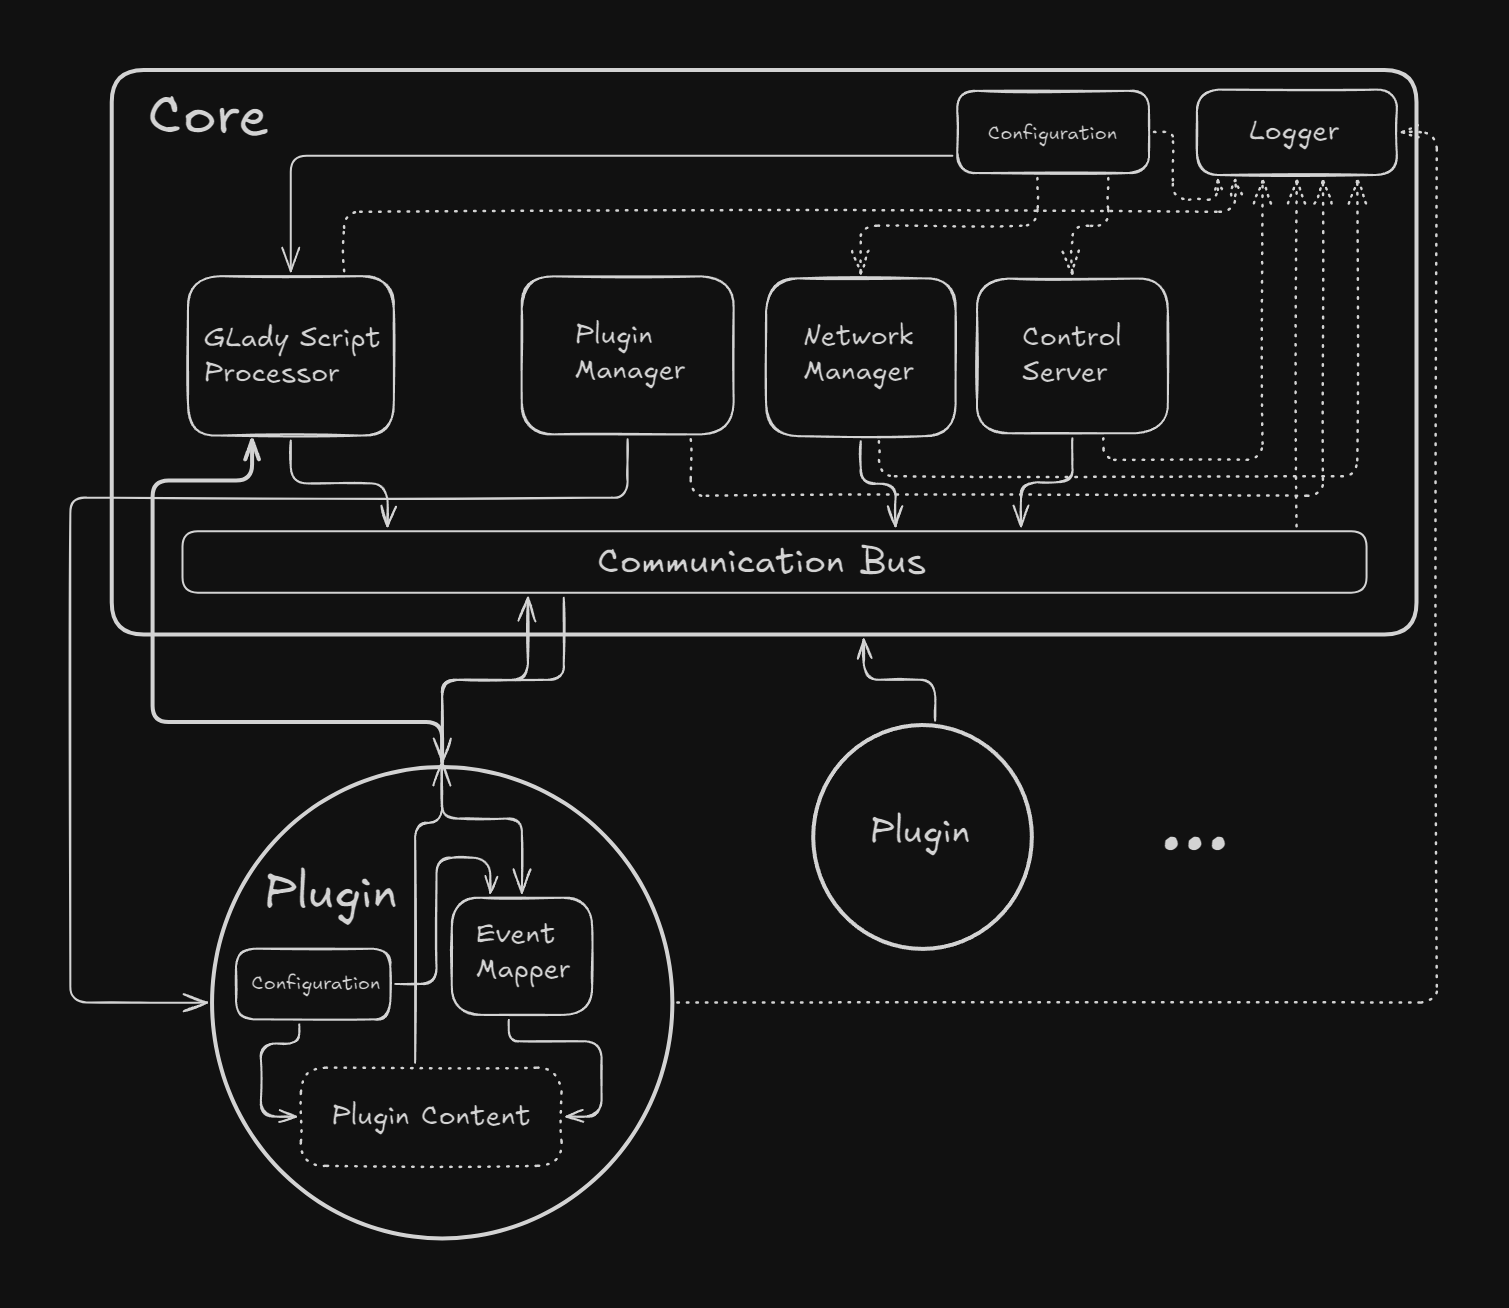
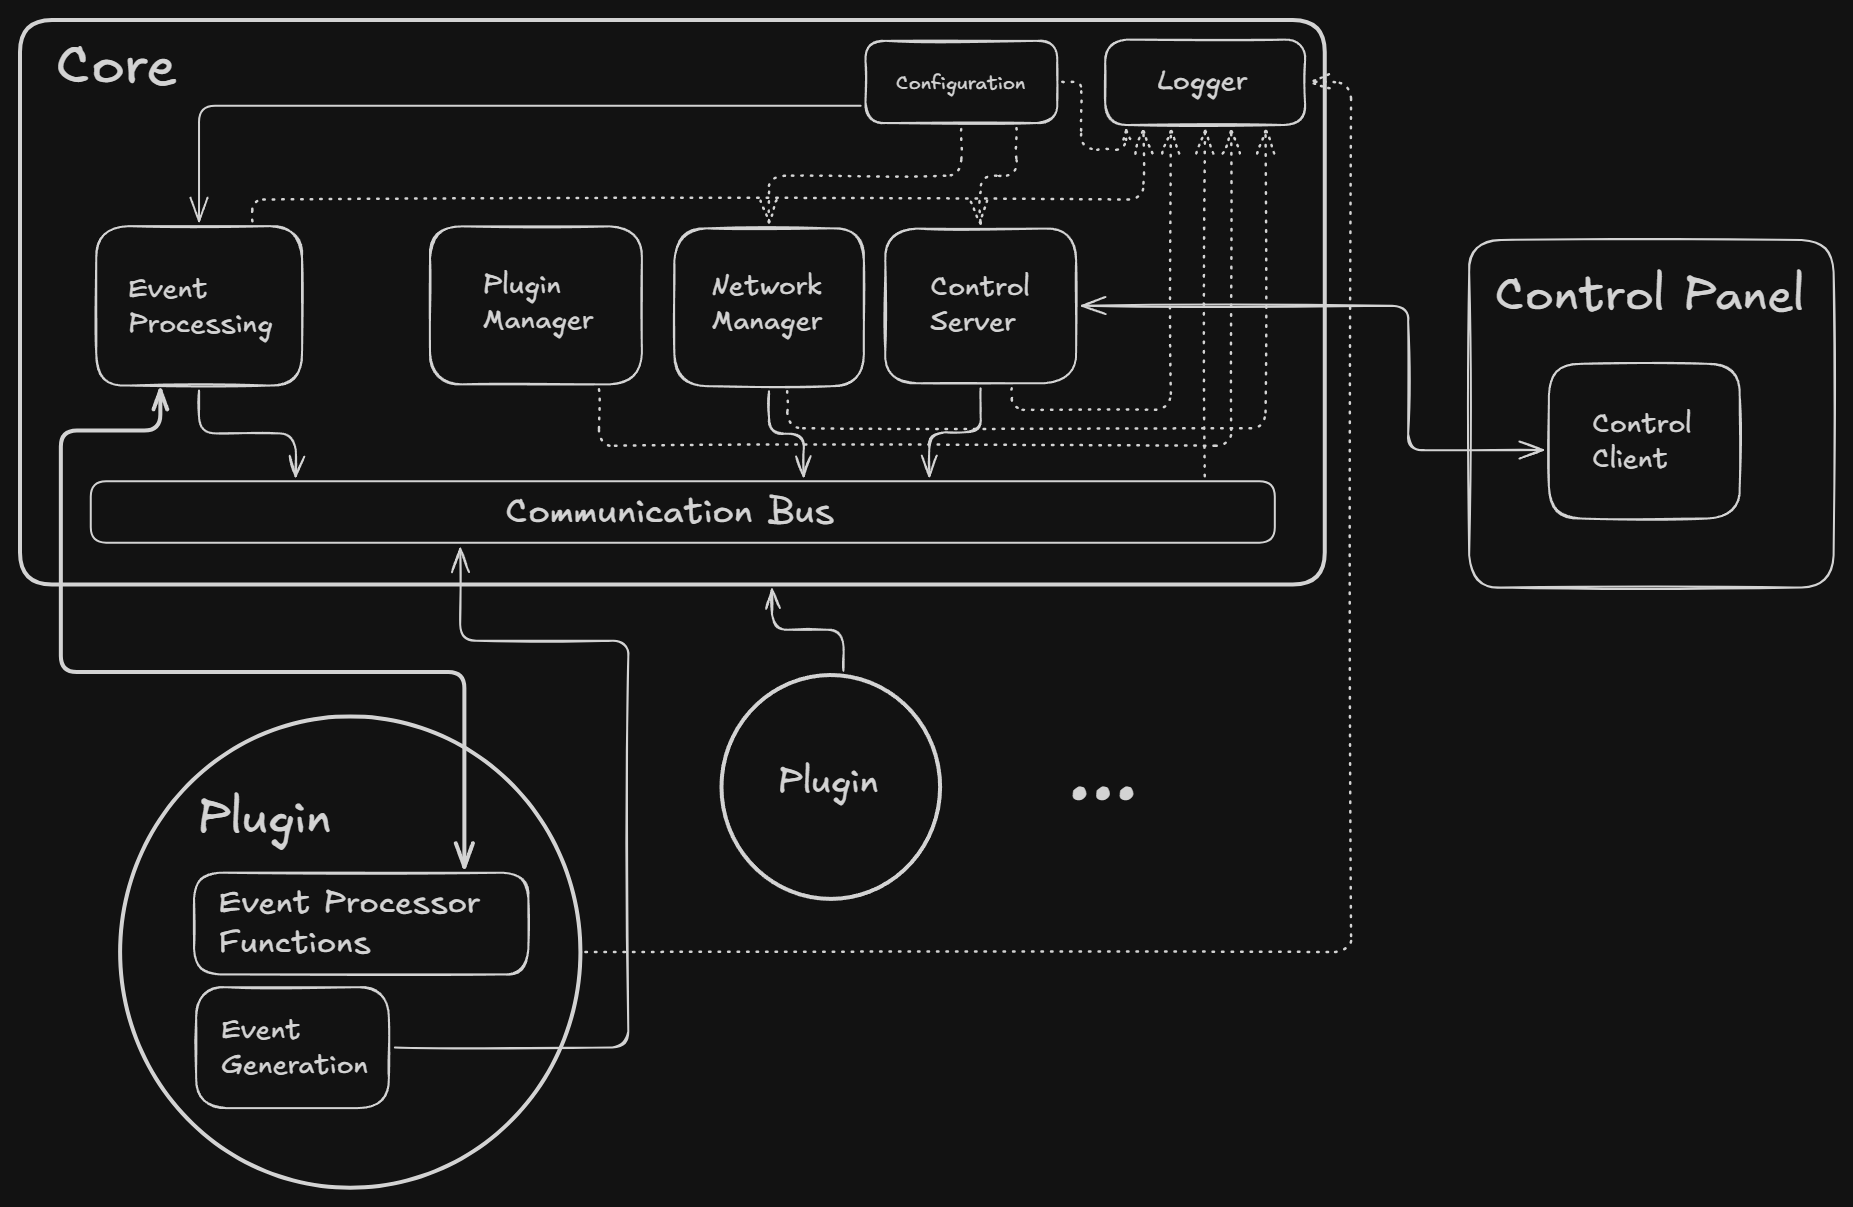
[DOCS] Architecture Scheme update

diff --git a/GLady Documentation/Excalidraw/GLadyDesign.md b/GLady Documentation/Excalidraw/GLadyDesign.md
@@ -33,229 +33,211 @@ Plugin ^hrD4Oge6
 
 ... ^zCPWZZqm
 
-Plugin Content ^B25HMugm
+Event
+Processing ^c4uxYhhH
 
 Event
-Mapper ^En6BriUw
+Generation ^En6BriUw
 
-GLady Script
-Processor ^c4uxYhhH
+Event Processor
+Functions ^d8Q81Ud8
 
-Configuration ^1S1NVL4I
+Control Panel ^R5ytfdoU
+
+Control
+Client ^zXq06XsP
 
 %%
 ## Drawing
 ```compressed-json
[2 lines of base64/hex data omitted]
 
[2 lines of base64/hex data omitted]
 
[2 lines of base64/hex data omitted]
 
[2 lines of base64/hex data omitted]
 
[2 lines of base64/hex data omitted]
 
[2 lines of base64/hex data omitted]
 
[2 lines of base64/hex data omitted]
 
[2 lines of base64/hex data omitted]
 
[2 lines of base64/hex data omitted]
 
[2 lines of base64/hex data omitted]
 
[2 lines of base64/hex data omitted]
 
[2 lines of base64/hex data omitted]
 
[2 lines of base64/hex data omitted]
 
[2 lines of base64/hex data omitted]
 
[2 lines of base64/hex data omitted]
 
[2 lines of base64/hex data omitted]
 
[2 lines of base64/hex data omitted]
 
[2 lines of base64/hex data omitted]
 
[2 lines of base64/hex data omitted]
 
[2 lines of base64/hex data omitted]
 
[2 lines of base64/hex data omitted]
 
[2 lines of base64/hex data omitted]
 
[2 lines of base64/hex data omitted]
 
[2 lines of base64/hex data omitted]
 
[2 lines of base64/hex data omitted]
 
[2 lines of base64/hex data omitted]
 
[2 lines of base64/hex data omitted]
 
[2 lines of base64/hex data omitted]
 
[2 lines of base64/hex data omitted]
 
[2 lines of base64/hex data omitted]
 
[2 lines of base64/hex data omitted]
 
[2 lines of base64/hex data omitted]
 
[2 lines of base64/hex data omitted]
 
[2 lines of base64/hex data omitted]
 
[2 lines of base64/hex data omitted]
 
[2 lines of base64/hex data omitted]
 
[2 lines of base64/hex data omitted]
 
[2 lines of base64/hex data omitted]
 
[2 lines of base64/hex data omitted]
 
[2 lines of base64/hex data omitted]
 
[2 lines of base64/hex data omitted]
 
[2 lines of base64/hex data omitted]
 
[2 lines of base64/hex data omitted]
 
[2 lines of base64/hex data omitted]
 
[2 lines of base64/hex data omitted]
 
[2 lines of base64/hex data omitted]
 
[2 lines of base64/hex data omitted]
 
[2 lines of base64/hex data omitted]
 
[2 lines of base64/hex data omitted]
 
[2 lines of base64/hex data omitted]
 
[2 lines of base64/hex data omitted]
 
[2 lines of base64/hex data omitted]
 
[2 lines of base64/hex data omitted]
 
[2 lines of base64/hex data omitted]
 
[2 lines of base64/hex data omitted]
 
[2 lines of base64/hex data omitted]
 
[2 lines of base64/hex data omitted]
 
[2 lines of base64/hex data omitted]
 
[2 lines of base64/hex data omitted]
 
[2 lines of base64/hex data omitted]
 
[2 lines of base64/hex data omitted]
 
[2 lines of base64/hex data omitted]
 
[2 lines of base64/hex data omitted]
 
[2 lines of base64/hex data omitted]
 
[2 lines of base64/hex data omitted]
 
[2 lines of base64/hex data omitted]
 
[2 lines of base64/hex data omitted]
 
[2 lines of base64/hex data omitted]
 
[2 lines of base64/hex data omitted]
 
[2 lines of base64/hex data omitted]
 
[2 lines of base64/hex data omitted]
 
[2 lines of base64/hex data omitted]
 
[2 lines of base64/hex data omitted]
 
[2 lines of base64/hex data omitted]
 
[2 lines of base64/hex data omitted]
 
[2 lines of base64/hex data omitted]
 
[2 lines of base64/hex data omitted]
 
[2 lines of base64/hex data omitted]
 
[2 lines of base64/hex data omitted]
 
[2 lines of base64/hex data omitted]
 
[2 lines of base64/hex data omitted]
 
[2 lines of base64/hex data omitted]
 
[2 lines of base64/hex data omitted]
 
[2 lines of base64/hex data omitted]
 
[2 lines of base64/hex data omitted]
 
[2 lines of base64/hex data omitted]
 
[2 lines of base64/hex data omitted]
 
[2 lines of base64/hex data omitted]
 
[2 lines of base64/hex data omitted]
 
[2 lines of base64/hex data omitted]
 
[2 lines of base64/hex data omitted]
 
[2 lines of base64/hex data omitted]
 
[2 lines of base64/hex data omitted]
 
[2 lines of base64/hex data omitted]
 
[1 lines of base64/hex data omitted]
-
[1 lines of base64/hex data omitted]
-
[1 lines of base64/hex data omitted]
-
[1 lines of base64/hex data omitted]
-
[1 lines of base64/hex data omitted]
-
[1 lines of base64/hex data omitted]
-
[1 lines of base64/hex data omitted]
-
[1 lines of base64/hex data omitted]
-
[1 lines of base64/hex data omitted]
-
[1 lines of base64/hex data omitted]
-
[1 lines of base64/hex data omitted]
-
-vqTcwAwG25IxpvXOc4SsCADGgxkMeg0Qy8KFTtwgFmB672wIAA==
+e6OeYwIQ2JGaxmrpASbHAZgFyaQkHIBihoEbICEBMDFKCztwgIWBUoOwIAA=
 ```
 %%
